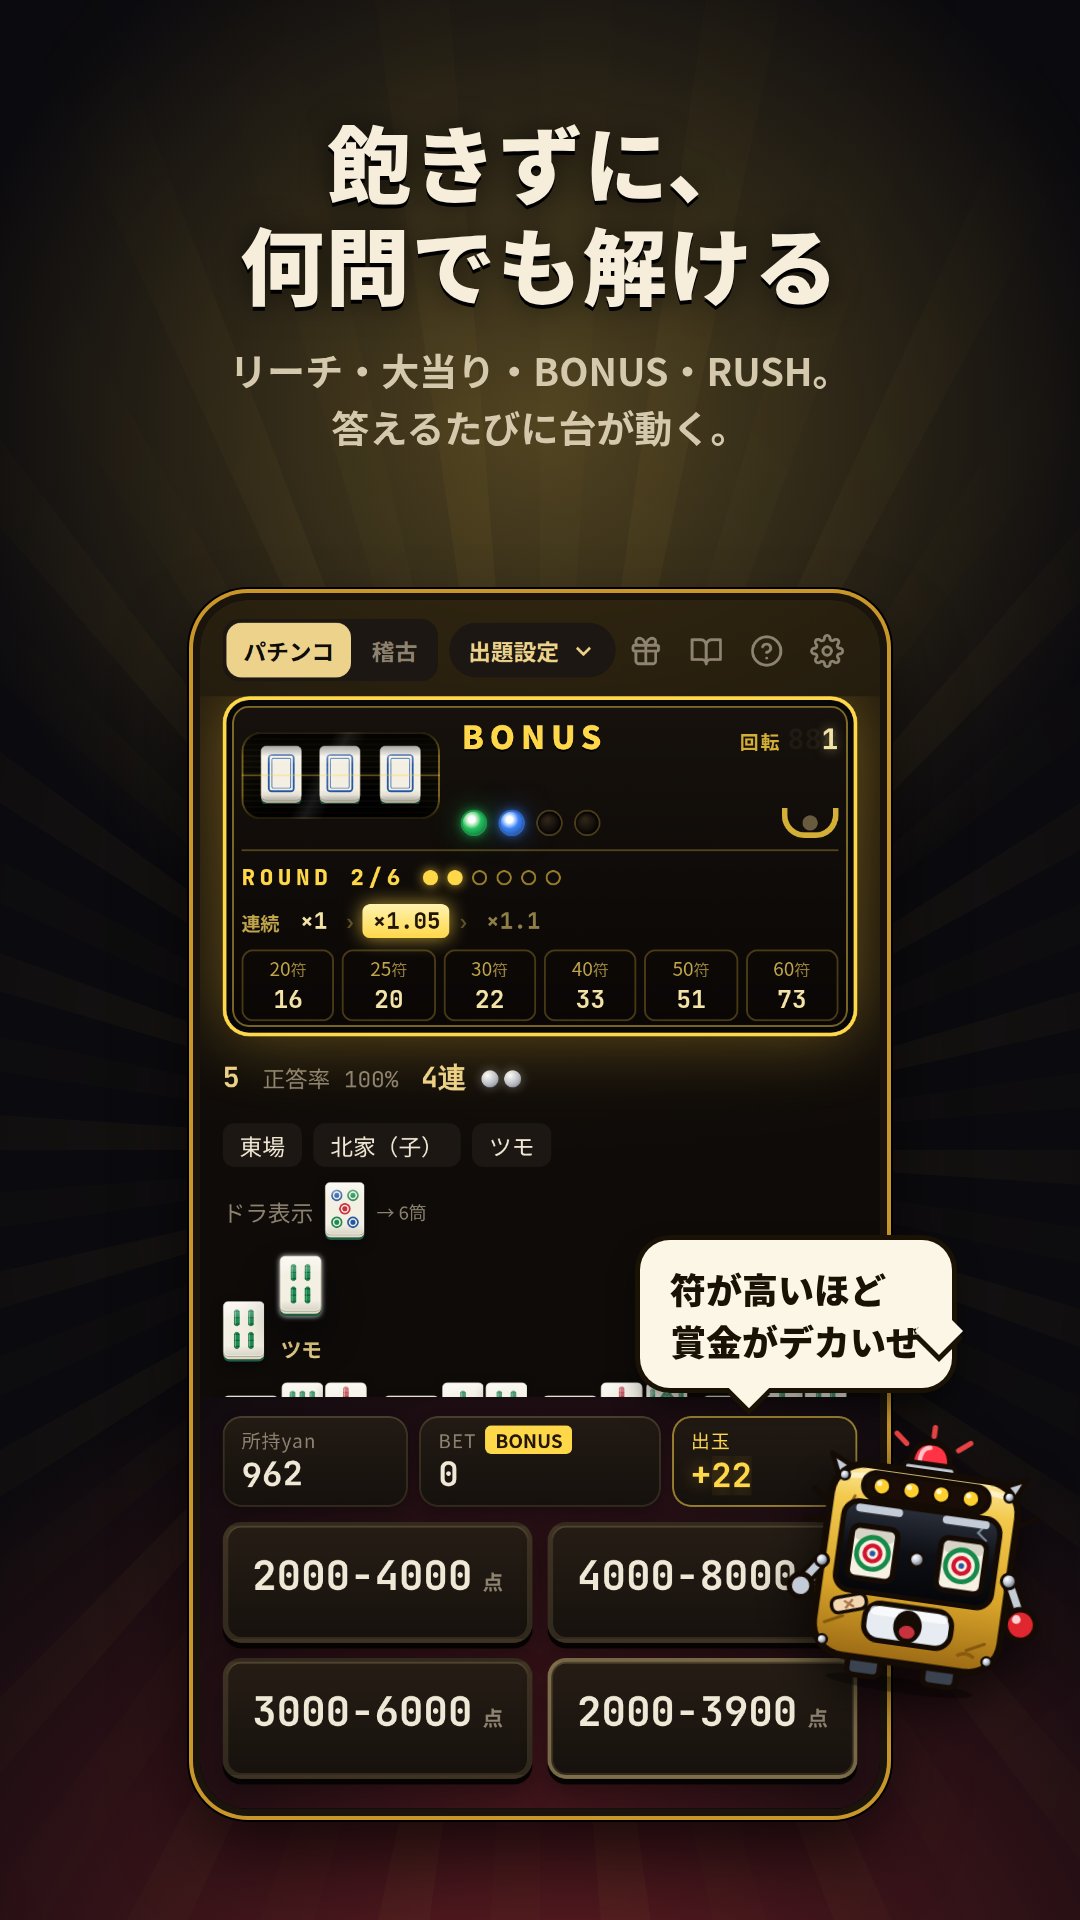
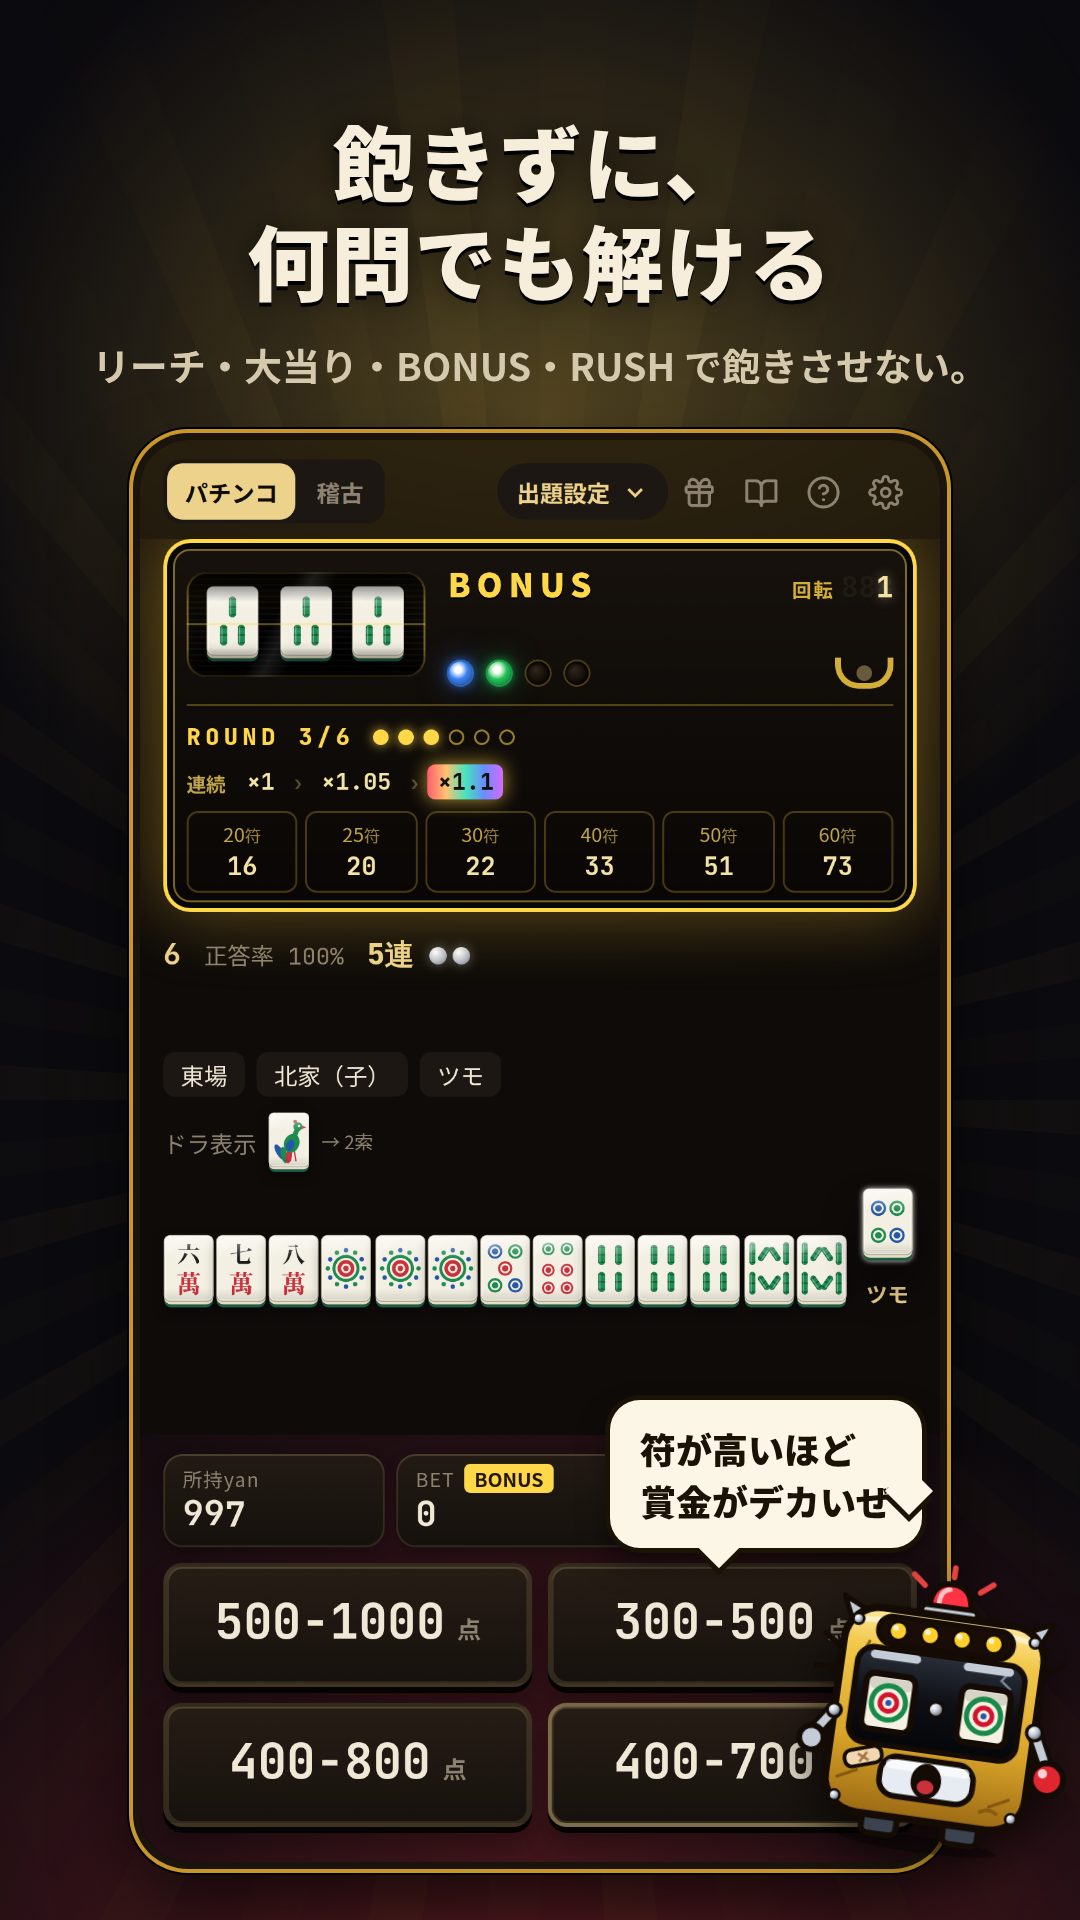
ストアのスクリーンショットを作り直す：高解像度の画面を大きく、構成を肝→実戦→パチンコ→稽古→上達→締めに
Claude-Session: https://claude.ai/code/session_01Go39Thog7wW1QK3dAFhgwM

Changed region(s): [[0.0917, 0.0625, 0.9778, 1.0], [0.0917, 0.8125, 0.1222, 0.9375], [0.0917, 0.1875, 0.1222, 0.2188]]

diff --git a/store/listing.md b/store/listing.md
@@ -65,7 +65,7 @@ yan を稼いで Lv が上がるたびに、麻雀牌スロットの妖精・パ
 | フィーチャー グラフィック | `store/feature-graphic.png` | 1024×500 PNG（透過なし） |
 | スマートフォンのスクリーンショット | `store/screenshots/1-core.png` 〜 `6-survive.png` | 1080×1920（9:16）、2〜8枚 |
 
-スクリーンショットは番号順に並べる（1 ゲームの肝 → 2 世界観 → 3 パチンコ → 4 稽古 → 5 このゲームならではの仕様 → 6 締め）。
+スクリーンショットは番号順に並べる（1 ゲームの肝 → 2 実戦で困らない（図解の解説） → 3 パチンコ → 4 稽古（初心者から上級者まで） → 5 上達が見える（成績） → 6 世界観と締め）。
 最初の2〜3枚が検索結果や一覧で見られるので、1枚目で「麻雀の点数計算をパチンコで覚える」ことを言い切る。
 
 ## 分類と連絡先
